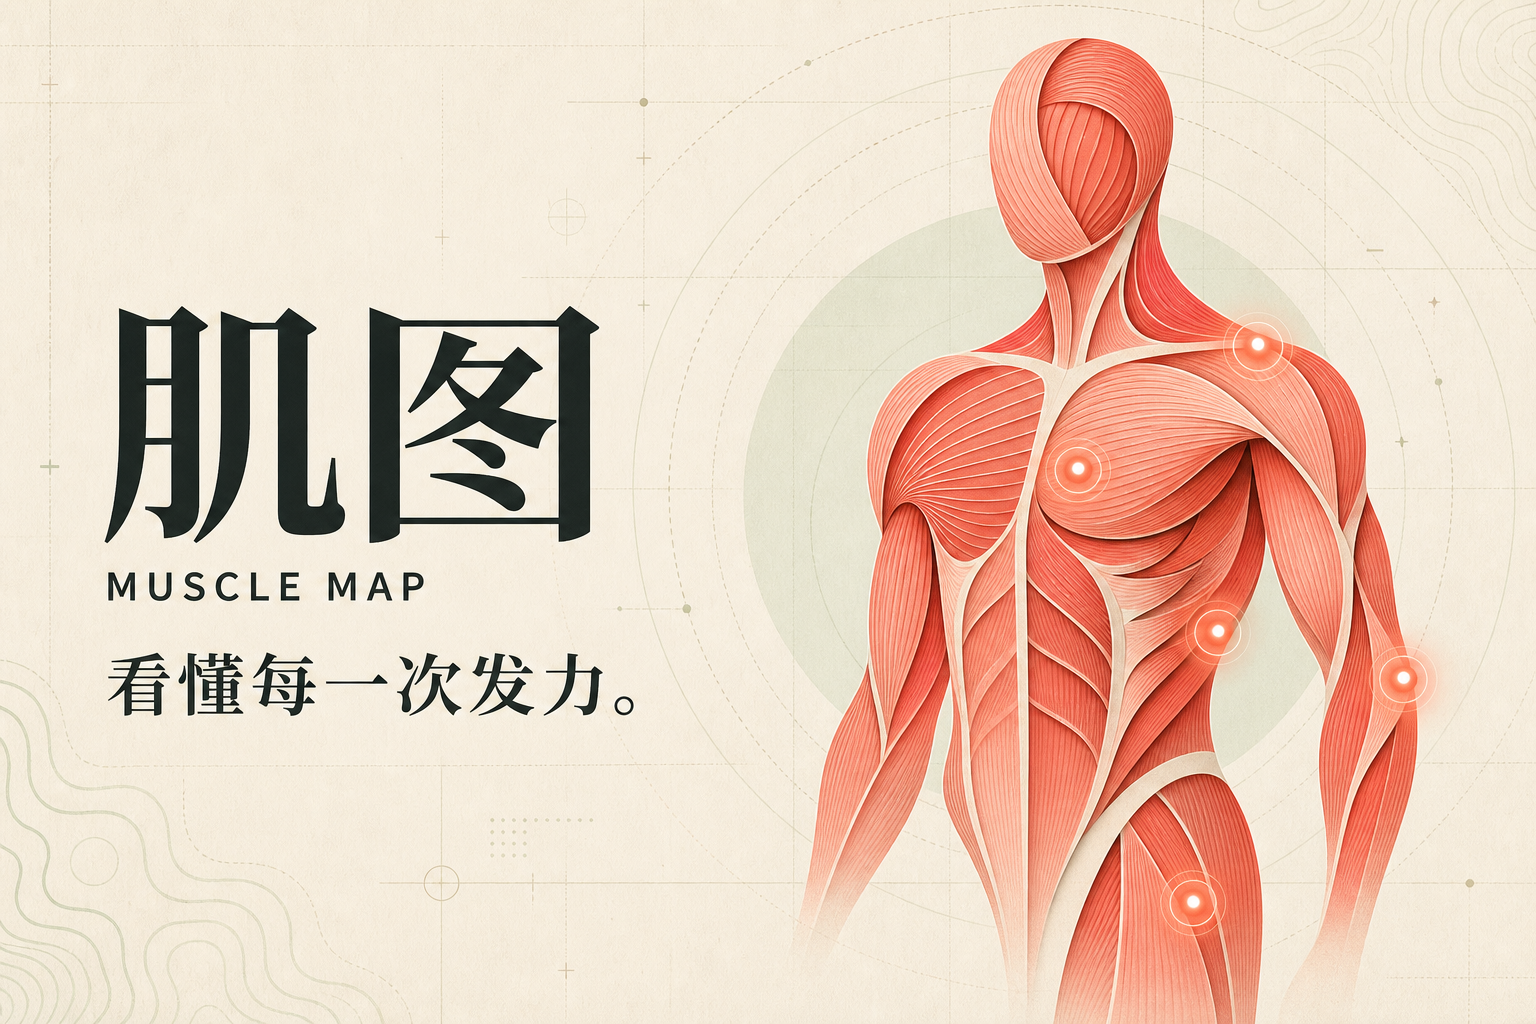
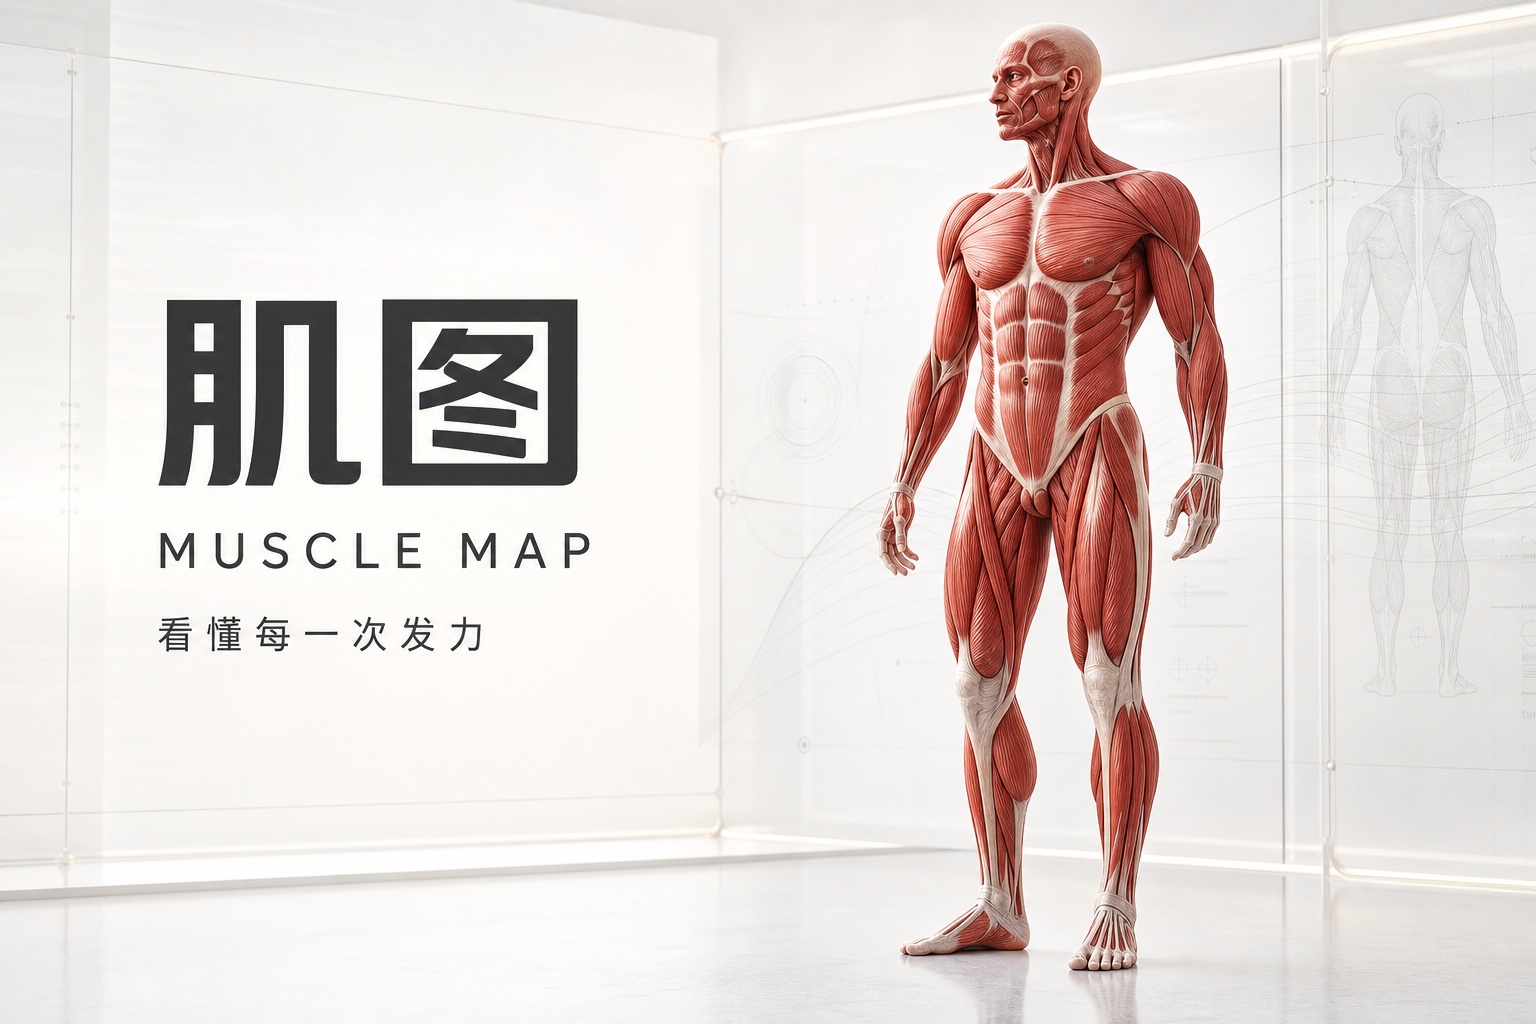
Add click-to-focus muscle exploration

diff --git a/app/Anatomy3D.tsx b/app/Anatomy3D.tsx
@@ -1,6 +1,6 @@
 "use client";
 
-import { createElement, useCallback, useEffect, useState } from "react";
+import { createElement, useCallback, useEffect, useRef, useState } from "react";
 
 type BodyView = "front" | "back";
 
@@ -21,13 +21,53 @@ type Anatomy3DProps = {
 
 type ModelViewerElement = HTMLElement & {
   resetTurntableRotation?: () => void;
+  getDimensions?: () => Vector3D;
+  getBoundingBoxCenter?: () => Vector3D;
+  getCameraOrbit?: () => CameraOrbit;
+  positionAndNormalFromPoint?: (clientX: number, clientY: number) => ModelHit | null;
 };
+
+type Vector3D = { x: number; y: number; z: number; toString: () => string };
+type CameraOrbit = { theta: number; phi: number; radius: number; toString: () => string };
+type ModelHit = { position: Vector3D; normal: Vector3D };
+type FocusMarker = { x: number; y: number; name: string };
 
 type ProgressEvent = Event & {
   detail?: { totalProgress?: number };
 };
 
-const MODEL_VIEWER_SCRIPT = "https://unpkg.com/@google/model-viewer@4.2.0/dist/model-viewer.min.js";
+const MODEL_VIEWER_SCRIPT = "https://ajax.googleapis.com/ajax/libs/model-viewer/4.3.1/model-viewer.min.js";
+
+const FOCUS_PROFILES: Record<string, { y: number; zoom: number }> = {
+  deltoid: { y: 0.77, zoom: 46 }, chest: { y: 0.68, zoom: 43 }, biceps: { y: 0.62, zoom: 43 }, forearm: { y: 0.49, zoom: 42 },
+  abs: { y: 0.52, zoom: 43 }, obliques: { y: 0.51, zoom: 43 }, adductors: { y: 0.36, zoom: 45 }, quadriceps: { y: 0.27, zoom: 43 }, tibialis: { y: 0.1, zoom: 42 },
+  trapezius: { y: 0.73, zoom: 44 }, "rotator-cuff": { y: 0.72, zoom: 43 }, triceps: { y: 0.62, zoom: 43 }, lats: { y: 0.59, zoom: 44 },
+  erectors: { y: 0.5, zoom: 44 }, glutes: { y: 0.39, zoom: 44 }, hamstrings: { y: 0.25, zoom: 43 }, calves: { y: 0.1, zoom: 42 },
+};
+
+function muscleAtPoint(muscles: MuscleOption[], pointView: BodyView, point: Vector3D, center: Vector3D, dimensions: Vector3D) {
+  const height = Math.max(0, Math.min(1, (point.y - (center.y - dimensions.y / 2)) / dimensions.y));
+  const side = Math.abs(point.x - center.x) / Math.max(dimensions.x / 2, 0.001);
+  let id: string;
+
+  if (pointView === "front") {
+    if (height > 0.74) id = side > 0.26 ? "deltoid" : "chest";
+    else if (height > 0.61) id = side > 0.5 ? "biceps" : "chest";
+    else if (height > 0.45) id = side > 0.69 ? "forearm" : side > 0.25 ? "obliques" : "abs";
+    else if (height > 0.31) id = "adductors";
+    else if (height > 0.15) id = "quadriceps";
+    else id = "tibialis";
+  } else {
+    if (height > 0.74) id = side > 0.3 ? "rotator-cuff" : "trapezius";
+    else if (height > 0.61) id = side > 0.56 ? "triceps" : side > 0.25 ? "lats" : "trapezius";
+    else if (height > 0.45) id = side > 0.35 ? "lats" : "erectors";
+    else if (height > 0.31) id = "glutes";
+    else if (height > 0.15) id = "hamstrings";
+    else id = "calves";
+  }
+
+  return muscles.find((muscle) => muscle.id === id)?.id ?? muscles.find((muscle) => muscle.view === pointView)?.id ?? muscles[0]?.id;
+}
 
 function installModelViewer(onReady: () => void, onError: () => void) {
   if (customElements.get("model-viewer")) {
@@ -57,18 +97,28 @@ function installModelViewer(onReady: () => void, onError: () => void) {
   };
 }
 
-export default function Anatomy3D({ view, activeId, muscles, playing }: Anatomy3DProps) {
+export default function Anatomy3D({ view, activeId, muscles, playing, onSelect }: Anatomy3DProps) {
   const [viewerElement, setViewerElement] = useState<ModelViewerElement | null>(null);
   const [viewerReady, setViewerReady] = useState(false);
   const [modelReady, setModelReady] = useState(false);
   const [failed, setFailed] = useState(false);
   const [progress, setProgress] = useState(0);
   const [zoom, setZoom] = useState(105);
+  const [focusedId, setFocusedId] = useState<string | null>(null);
+  const [focusMarker, setFocusMarker] = useState<FocusMarker | null>(null);
+  const pointerStartRef = useRef<{ x: number; y: number } | null>(null);
+  const markerTimerRef = useRef<number | null>(null);
+  const previousActiveIdRef = useRef(activeId);
+  const modelSelectionRef = useRef(false);
   const activeMuscle = muscles.find((muscle) => muscle.id === activeId) ?? muscles[0];
   const azimuth = view === "front" ? 0 : 180;
   const captureViewer = useCallback((node: ModelViewerElement | null) => setViewerElement(node), []);
 
   useEffect(() => installModelViewer(() => setViewerReady(true), () => setFailed(true)), []);
+
+  useEffect(() => () => {
+    if (markerTimerRef.current) window.clearTimeout(markerTimerRef.current);
+  }, []);
 
   useEffect(() => {
     const viewer = viewerElement;
@@ -95,6 +145,23 @@ export default function Anatomy3D({ view, activeId, muscles, playing }: Anatomy3
     };
   }, [viewerElement, viewerReady]);
 
+  const focusMuscle = useCallback((muscleId: string) => {
+    const viewer = viewerElement;
+    const profile = FOCUS_PROFILES[muscleId];
+    if (!viewer || !modelReady || !profile) return;
+    const dimensions = viewer.getDimensions?.();
+    const center = viewer.getBoundingBoxCenter?.();
+    const muscle = muscles.find((item) => item.id === muscleId);
+    if (!dimensions || !center || !muscle) return;
+
+    const targetY = center.y - dimensions.y / 2 + dimensions.y * profile.y;
+    viewer.setAttribute("camera-target", `${center.x}m ${targetY}m ${center.z}m`);
+    viewer.setAttribute("camera-orbit", `${muscle.view === "front" ? 0 : 180}deg 78deg ${profile.zoom}%`);
+    viewer.setAttribute("field-of-view", "28deg");
+    setZoom(profile.zoom);
+    setFocusedId(muscleId);
+  }, [modelReady, muscles, viewerElement]);
+
   useEffect(() => {
     const viewer = viewerElement;
     if (!viewer) return;
@@ -103,20 +170,82 @@ export default function Anatomy3D({ view, activeId, muscles, playing }: Anatomy3
   }, [azimuth, viewerElement, zoom, viewerReady]);
 
   useEffect(() => {
+    if (!modelReady || previousActiveIdRef.current === activeId) return;
+    previousActiveIdRef.current = activeId;
+    if (modelSelectionRef.current) {
+      modelSelectionRef.current = false;
+      return;
+    }
+    focusMuscle(activeId);
+  }, [activeId, focusMuscle, modelReady]);
+
+  useEffect(() => {
     const viewer = viewerElement;
     if (!viewer) return;
-    if (playing) viewer.setAttribute("auto-rotate", "");
+    if (playing && !focusedId) viewer.setAttribute("auto-rotate", "");
     else viewer.removeAttribute("auto-rotate");
-  }, [playing, viewerElement, viewerReady]);
+  }, [focusedId, playing, viewerElement, viewerReady]);
+
+  useEffect(() => {
+    const viewer = viewerElement;
+    if (!viewer || !modelReady) return;
+
+    const handlePointerDown = (event: PointerEvent) => {
+      pointerStartRef.current = { x: event.clientX, y: event.clientY };
+    };
+    const handlePointerUp = (event: PointerEvent) => {
+      const start = pointerStartRef.current;
+      pointerStartRef.current = null;
+      if (!start || Math.hypot(event.clientX - start.x, event.clientY - start.y) > 8) return;
+
+      const hit = viewer.positionAndNormalFromPoint?.(event.clientX, event.clientY);
+      const dimensions = viewer.getDimensions?.();
+      const center = viewer.getBoundingBoxCenter?.();
+      if (!hit || !dimensions || !center) return;
+
+      const orbit = viewer.getCameraOrbit?.();
+      const theta = orbit?.theta ?? (view === "front" ? 0 : Math.PI);
+      const normalizedTheta = ((theta % (Math.PI * 2)) + Math.PI * 2) % (Math.PI * 2);
+      const pointView: BodyView = normalizedTheta > Math.PI / 2 && normalizedTheta < Math.PI * 1.5 ? "back" : "front";
+      const nextId = muscleAtPoint(muscles, pointView, hit.position, center, dimensions);
+      const nextMuscle = muscles.find((muscle) => muscle.id === nextId);
+      if (!nextId || !nextMuscle) return;
+
+      const nextZoom = FOCUS_PROFILES[nextId]?.zoom ?? 44;
+      modelSelectionRef.current = nextId !== activeId;
+      onSelect(nextId);
+      setFocusedId(nextId);
+      setZoom(nextZoom);
+      viewer.setAttribute("camera-target", hit.position.toString());
+      viewer.setAttribute("camera-orbit", `${pointView === "front" ? 0 : 180}deg 78deg ${nextZoom}%`);
+      viewer.setAttribute("field-of-view", "28deg");
+
+      const bounds = viewer.getBoundingClientRect();
+      setFocusMarker({ x: event.clientX - bounds.left, y: event.clientY - bounds.top, name: nextMuscle.name });
+      if (markerTimerRef.current) window.clearTimeout(markerTimerRef.current);
+      markerTimerRef.current = window.setTimeout(() => setFocusMarker(null), 1500);
+    };
+
+    viewer.addEventListener("pointerdown", handlePointerDown);
+    viewer.addEventListener("pointerup", handlePointerUp);
+    return () => {
+      viewer.removeEventListener("pointerdown", handlePointerDown);
+      viewer.removeEventListener("pointerup", handlePointerUp);
+    };
+  }, [activeId, modelReady, muscles, onSelect, view, viewerElement]);
 
   const resetView = () => {
     const nextZoom = 105;
     setZoom(nextZoom);
+    setFocusedId(null);
+    setFocusMarker(null);
     const orbit = `${azimuth}deg 78deg ${nextZoom}%`;
     const viewer = viewerElement;
     if (viewer) {
       viewer.resetTurntableRotation?.();
+      viewer.setAttribute("camera-target", "auto auto auto");
       viewer.setAttribute("camera-orbit", orbit);
+      viewer.setAttribute("field-of-view", "26deg");
     }
   };
 
@@ -134,16 +263,23 @@ export default function Anatomy3D({ view, activeId, muscles, playing }: Anatomy3
     exposure: "1.08",
     "environment-image": "neutral",
     "camera-orbit": `${azimuth}deg 78deg ${zoom}%`,
-    "min-camera-orbit": "auto 58deg 72%",
+    "min-camera-orbit": "auto 58deg 34%",
     "max-camera-orbit": "auto 100deg 150%",
     "field-of-view": "26deg",
+    "interpolation-decay": "120",
     loading: "eager",
     reveal: "auto",
   });
 
   return (
-    <div className="anatomy-3d" data-ready={modelReady ? "true" : "false"}>
+    <div className="anatomy-3d" data-ready={modelReady ? "true" : "false"} data-focused={focusedId ? "true" : "false"}>
       {!failed && model}
+
+      {focusMarker && (
+        <div className="anatomy-focus-marker" style={{ left: focusMarker.x, top: focusMarker.y }} aria-hidden="true">
+          <i /><span>{focusMarker.name}</span>
+        </div>
+      )}
 
       {!modelReady && !failed && (
         <div className="anatomy-loading" role="status" aria-live="polite">
@@ -171,11 +307,16 @@ export default function Anatomy3D({ view, activeId, muscles, playing }: Anatomy3
 
       <div className="anatomy-axis" aria-hidden="true"><span>SUPERIOR</span><i /><span>INFERIOR</span></div>
 
-      <p className="anatomy-3d-help"><b>拖动</b>旋转 · <b>滚轮 / 双指</b>缩放 · 从下方选择肌群</p>
+      <p className="anatomy-3d-help"><b>点按肌肉</b>局部放大 · <b>拖动</b>旋转 · <b>双指</b>缩放</p>
+      {focusedId && (
+        <button className="anatomy-focus-chip" type="button" onClick={resetView}>
+          <span aria-hidden="true">⌖</span> 正在观察 {activeMuscle.name} <b>返回全身</b>
+        </button>
+      )}
       <div className="anatomy-3d-controls" aria-label="3D 模型控制">
         <button type="button" onClick={() => setZoom((value) => Math.min(150, value + 10))} aria-label="缩小 3D 模型">−</button>
-        <button type="button" onClick={resetView}>复位</button>
-        <button type="button" onClick={() => setZoom((value) => Math.max(72, value - 10))} aria-label="放大 3D 模型">＋</button>
+        <button type="button" onClick={resetView}>{focusedId ? "全身" : "复位"}</button>
+        <button type="button" onClick={() => setZoom((value) => Math.max(34, value - 10))} aria-label="放大 3D 模型">＋</button>
       </div>
 
       <p className="anatomy-license">

diff --git a/app/globals.css b/app/globals.css
@@ -1,22 +1,22 @@
 @import "tailwindcss";
 
 :root {
-  --paper: #f4f1ea;
-  --card: #fbfaf6;
-  --ink: #18201c;
-  --muted: #6f746f;
-  --line: #dcd8cf;
-  --accent: #e4563f;
-  --accent-dark: #bd3d2b;
-  --mint: #dce8d7;
-  --soft-red: #f6dfd9;
+  --paper: #f5f5f7;
+  --card: rgba(255, 255, 255, .82);
+  --ink: #1d1d1f;
+  --muted: #6e6e73;
+  --line: #dedee3;
+  --accent: #c34234;
+  --accent-dark: #9f3026;
+  --mint: #e5eee6;
+  --soft-red: #f7e3df;
 }
 
 * { box-sizing: border-box; }
 html { scroll-behavior: smooth; }
 body {
   margin: 0;
-  background: var(--paper);
+  background: radial-gradient(circle at 50% 0, #fff 0, var(--paper) 34%, #efeff2 100%);
   color: var(--ink);
   font-family: Inter, ui-sans-serif, system-ui, -apple-system, BlinkMacSystemFont, "Segoe UI", "PingFang SC", "Hiragino Sans GB", "Microsoft YaHei", sans-serif;
   -webkit-font-smoothing: antialiased;
@@ -26,7 +26,7 @@ button, a { -webkit-tap-highlight-color: transparent; }
 a { color: inherit; text-decoration: none; }
 button { color: inherit; }
 
-.site-shell { min-height: 100vh; overflow: hidden; }
+.site-shell { min-height: 100vh; overflow-x: clip; }
 .topbar {
   width: min(1440px, calc(100% - 64px));
   height: 86px;
@@ -35,6 +35,11 @@ button { color: inherit; }
   grid-template-columns: 1fr auto 1fr;
   align-items: center;
   border-bottom: 1px solid var(--line);
+  position: sticky;
+  z-index: 30;
+  top: 0;
+  background: rgba(245, 245, 247, .78);
+  backdrop-filter: saturate(180%) blur(22px);
 }
 .brand { display: inline-flex; align-items: center; gap: 12px; width: fit-content; font-size: 17px; font-weight: 780; letter-spacing: .02em; }
 .brand b { display: block; margin-top: 1px; color: #868b86; font-size: 8px; line-height: 1; letter-spacing: .21em; }
@@ -63,7 +68,7 @@ button { color: inherit; }
 }
 .eyebrow { display: flex; align-items: center; gap: 10px; margin: 0 0 22px; color: #70766f; font-size: 11px; font-weight: 720; letter-spacing: .17em; text-transform: uppercase; }
 .eyebrow > span { width: 22px; height: 2px; background: var(--accent); }
-.intro h1 { max-width: 850px; margin: 0; font-family: "Songti SC", "STSong", Georgia, serif; font-size: clamp(70px, 8.2vw, 124px); font-weight: 500; line-height: .8; letter-spacing: -.07em; }
+.intro h1 { max-width: 850px; margin: 0; font-family: Inter, ui-sans-serif, system-ui, -apple-system, BlinkMacSystemFont, "PingFang SC", sans-serif; font-size: clamp(66px, 7.8vw, 116px); font-weight: 760; line-height: .84; letter-spacing: -.075em; }
 .intro h1 em { color: var(--accent); font-style: normal; }
 .intro-copy { padding: 0 0 8px; }
 .intro-copy > p { max-width: 410px; margin: 0 0 34px; color: #636963; font-size: 15px; line-height: 1.85; }
@@ -81,9 +86,9 @@ button { color: inherit; }
   gap: 14px;
   align-items: start;
 }
-.anatomy-card, .detail-panel { border: 1px solid var(--line); border-radius: 30px; background: var(--card); }
+.anatomy-card, .detail-panel { border: 1px solid rgba(215, 215, 220, .9); border-radius: 30px; background: var(--card); box-shadow: 0 22px 70px rgba(25, 25, 30, .075); backdrop-filter: blur(24px); }
 .anatomy-card { overflow: hidden; }
-.card-toolbar { min-height: 78px; padding: 16px 18px 16px 22px; display: grid; grid-template-columns: minmax(0, 1fr) minmax(220px, 340px); justify-content: space-between; align-items: center; gap: 18px; border-bottom: 1px solid var(--line); }
+.card-toolbar { min-height: 78px; padding: 16px 18px 16px 22px; display: grid; grid-template-columns: minmax(0, 1fr) minmax(220px, 340px); justify-content: space-between; align-items: center; gap: 18px; border-bottom: 1px solid var(--line); background: rgba(255, 255, 255, .68); }
 .model-toolbar-actions { display: flex; align-items: center; gap: 9px; }
 .view-switch { display: flex; gap: 4px; padding: 4px; border-radius: 999px; background: #ebe8e0; }
 .view-switch button { min-width: 68px; height: 36px; padding: 0 18px; border: 0; border-radius: 999px; background: transparent; color: #737972; font-size: 12px; cursor: pointer; transition: .2s ease; }
@@ -155,7 +160,7 @@ button { color: inherit; }
 .muscle-title h2 { margin: 0; font-family: "Songti SC", "STSong", Georgia, serif; font-size: clamp(42px, 4vw, 64px); font-weight: 500; line-height: 1; letter-spacing: -.05em; }
 .muscle-title p { margin: 0 0 5px; color: var(--accent); font-family: Georgia, serif; font-size: 12px; font-style: italic; text-align: right; }
 .muscle-summary { margin: 0 0 29px; color: #666c66; font-size: 13px; line-height: 1.75; }
-.motion-demo { display: grid; grid-template-columns: minmax(0, 1fr) 205px; align-items: stretch; min-height: 276px; margin: 0 0 27px; overflow: hidden; border-radius: 18px; background: var(--ink); color: white; }
+.motion-demo { display: grid; grid-template-columns: minmax(0, 1fr) 205px; align-items: stretch; min-height: 276px; margin: 0 0 27px; overflow: hidden; border-radius: 20px; background: linear-gradient(145deg, #1d1d1f, #29292d); color: white; box-shadow: 0 18px 38px rgba(20, 20, 24, .14); }
 .motion-demo-copy { display: flex; flex-direction: column; align-items: flex-start; padding: 22px 8px 20px 22px; }
 .motion-kicker { display: flex; align-items: center; gap: 7px; margin-bottom: 18px; color: #ef9e90; font-size: 7px; font-weight: 780; letter-spacing: .14em; }
 .motion-kicker > span { width: 17px; height: 1px; background: var(--accent); }
@@ -468,6 +473,7 @@ footer .disclaimer { justify-self: end; max-width: 400px; color: #989c97; font-s
 .anatomy-3d::after { right: 7%; }
 .anatomy-model-viewer { position: absolute; z-index: 2; inset: 0; width: 100%; height: 100%; display: block; background: transparent; --progress-bar-height: 0px; --poster-color: transparent; cursor: grab; outline-offset: -5px; }
 .anatomy-model-viewer:active { cursor: grabbing; }
+.anatomy-3d[data-focused="true"] .anatomy-model-viewer { cursor: zoom-out; }
 .anatomy-3d-status { position: absolute; z-index: 5; top: 26px; left: 28px; display: grid; grid-template-columns: auto auto; align-items: center; gap: 6px 10px; max-width: calc(100% - 56px); color: #6b6860; font-size: 8px; letter-spacing: .13em; pointer-events: none; }
 .anatomy-3d-status span { display: inline-flex; align-items: center; gap: 7px; }
 .anatomy-3d-status i { width: 7px; height: 7px; border-radius: 50%; background: #a93b2d; box-shadow: 0 0 0 5px rgba(169, 59, 45, .09); }
@@ -481,6 +487,15 @@ footer .disclaimer { justify-self: end; max-width: 400px; color: #989c97; font-s
 .anatomy-3d-controls button { min-width: 36px; height: 34px; padding: 0 11px; border: 0; border-radius: 999px; background: transparent; color: #5f5b53; font-size: 10px; cursor: pointer; transition: .2s ease; }
 .anatomy-3d-controls button:hover,
 .anatomy-3d-controls button:focus-visible { color: #fff; background: #33312c; }
+.anatomy-focus-chip { position: absolute; z-index: 6; left: 50%; bottom: 70px; min-height: 38px; display: inline-flex; align-items: center; gap: 7px; padding: 0 12px; border: 1px solid rgba(57, 51, 45, .12); border-radius: 999px; color: #5f5b53; background: rgba(255, 255, 255, .83); box-shadow: 0 12px 32px rgba(55, 48, 41, .13); font-size: 9px; transform: translateX(-50%); cursor: pointer; backdrop-filter: blur(16px); white-space: nowrap; animation: focus-chip-in .32s ease both; }
+.anatomy-focus-chip > span { width: 18px; height: 18px; display: grid; place-items: center; border-radius: 50%; color: #fff; background: var(--accent-dark); font-size: 10px; }
+.anatomy-focus-chip b { color: var(--accent-dark); font-size: 8px; }
+.anatomy-focus-chip:hover, .anatomy-focus-chip:focus-visible { border-color: rgba(159, 48, 38, .35); background: #fff; }
+@keyframes focus-chip-in { from { opacity: 0; transform: translate(-50%, 6px); } }
+.anatomy-focus-marker { position: absolute; z-index: 7; width: 24px; height: 24px; border: 1px solid rgba(255, 255, 255, .92); border-radius: 50%; background: rgba(195, 66, 52, .16); box-shadow: 0 0 0 7px rgba(195, 66, 52, .11), 0 8px 24px rgba(89, 31, 25, .24); transform: translate(-50%, -50%); pointer-events: none; animation: focus-marker 1.5s ease both; }
+.anatomy-focus-marker i { position: absolute; inset: 7px; border-radius: 50%; background: var(--accent); }
+.anatomy-focus-marker span { position: absolute; left: calc(100% + 9px); top: 50%; min-width: max-content; padding: 6px 9px; border-radius: 999px; color: #fff; background: rgba(29, 29, 31, .9); font-size: 8px; font-weight: 700; transform: translateY(-50%); backdrop-filter: blur(10px); }
+@keyframes focus-marker { 0% { opacity: 0; transform: translate(-50%, -50%) scale(.6); } 16%, 76% { opacity: 1; transform: translate(-50%, -50%) scale(1); } 100% { opacity: 0; transform: translate(-50%, -50%) scale(1.24); } }
 .anatomy-license { position: absolute; z-index: 5; right: 26px; top: 28px; margin: 0; display: flex; gap: 7px; align-items: center; color: #98948a; font-family: Georgia, serif; font-size: 7px; pointer-events: auto; }
 .anatomy-license a { color: #69655d; text-underline-offset: 2px; }
 .anatomy-license span { padding-left: 7px; border-left: 1px solid rgba(62, 58, 52, .18); font-family: inherit; }
@@ -513,7 +528,8 @@ footer .disclaimer { justify-self: end; max-width: 400px; color: #989c97; font-s
   .anatomy-axis { display: none; }
   .anatomy-license { right: 16px; top: 63px; }
   .anatomy-license > span { display: none; }
-  .anatomy-3d-help { left: 16px; right: 16px; bottom: 68px; text-align: center; line-height: 1.65; }
+  .anatomy-3d-help { left: 16px; right: 16px; bottom: 106px; text-align: center; line-height: 1.65; }
+  .anatomy-focus-chip { bottom: 64px; }
   .anatomy-3d-controls { right: 50%; bottom: 17px; transform: translateX(50%); }
 }
 